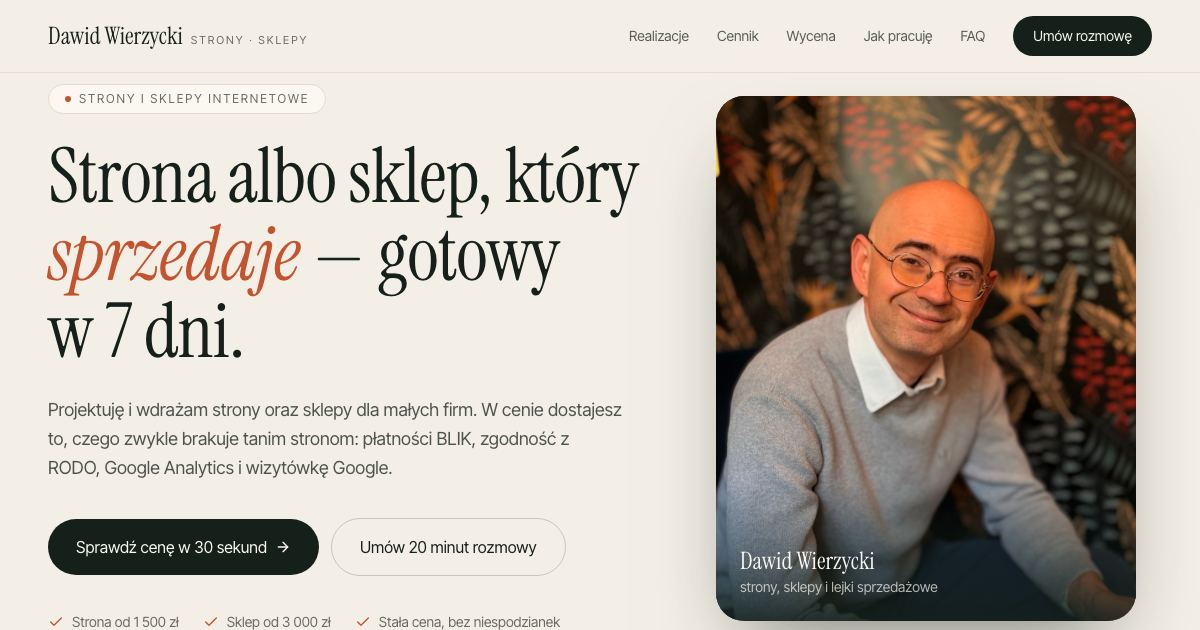
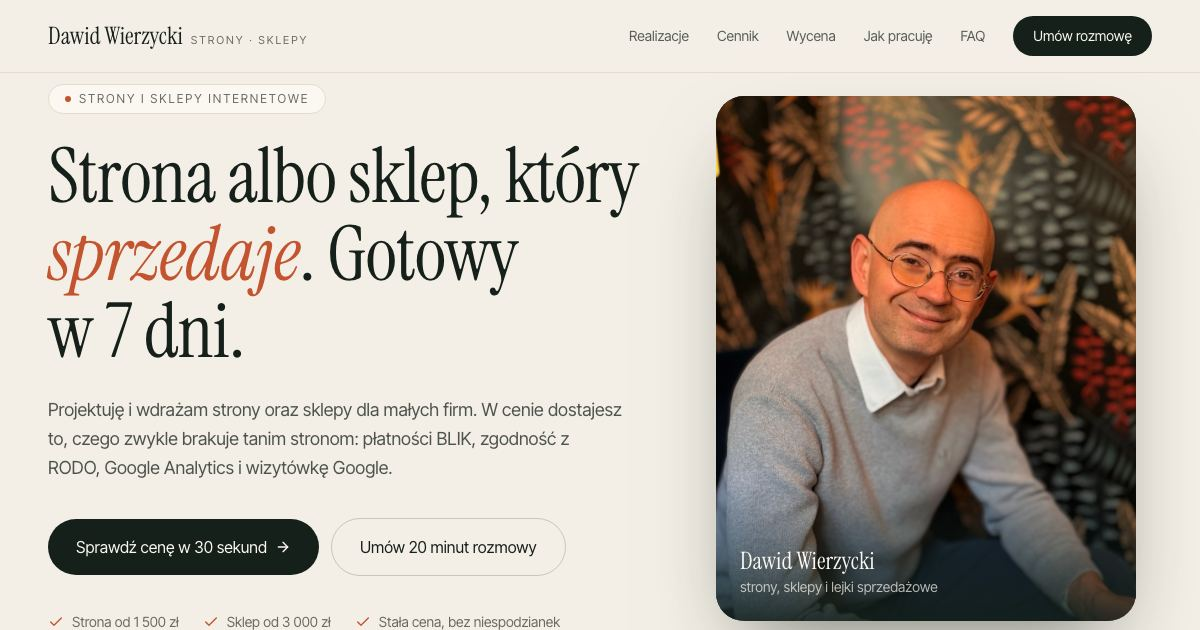
Teksty bez myślników: zdania przebudowane na kropki, przecinki i dwukropki (portfolio, polityka, koncepty, tytuły stron)

Changed region(s): [[0.2467, 0.3619, 0.4625, 0.4825]]

diff --git a/src/lib/content.ts b/src/lib/content.ts
@@ -55,7 +55,7 @@ export const PROJECTS: Project[] = [
     problem:
       "Sprzedaż e-booka dla adwokatów bez ręcznej obsługi: bez wysyłania plików, przepisywania danych do faktur i dopisywania ludzi do listy mailingowej.",
     solution:
-      "Sklep, który sam przyjmuje płatność, wysyła e-book, wystawia fakturę i zapisuje klienta do newslettera — a formularz zamówienia ma tylko trzy pola.",
+      "Sklep, który sam przyjmuje płatność, wysyła e-book, wystawia fakturę i zapisuje klienta do newslettera. Formularz zamówienia ma przy tym tylko trzy pola.",
     features: [
       "Płatności BLIK, kartą, Apple Pay i Google Pay",
       "Krótki formularz: e-mail, imię i nazwisko; dane do faktury tylko na życzenie (ze sprawdzaniem NIP)",
@@ -78,7 +78,7 @@ export const PROJECTS: Project[] = [
     problem:
       "Agencja pracująca z prawnikami, klinikami i agentami nieruchomości potrzebowała strony, która buduje zaufanie, zanim klient zadzwoni.",
     solution:
-      "Szybka strona z osobnymi podstronami dla każdej branży, blogiem eksperckim i rezerwacją rozmowy w kalendarzu — w trzech językach.",
+      "Szybka strona z osobnymi podstronami dla każdej branży, blogiem eksperckim i rezerwacją rozmowy w kalendarzu, w trzech językach.",
     features: [
       "Podstrony dla prawników, klinik i nieruchomości",
       "Blog ekspercki przyjazny Google i wyszukiwarkom AI",
@@ -147,7 +147,7 @@ export const PACKAGES = [
     price: 3000,
     pilot: null,
     time: "14 dni roboczych",
-    lead: "Dla firm, które chcą sprzedawać online — produkty, usługi lub pliki do pobrania.",
+    lead: "Dla firm, które chcą sprzedawać online: produkty, usługi lub pliki do pobrania.",
     items: [
       "Wszystko z pakietu Strona",
       "Do 20 produktów z kategoriami",
@@ -179,7 +179,7 @@ export const CARE = [
 
 export const STEPS = [
   { title: "Rozmowa", time: "20 minut", text: "Opowiadasz o firmie i klientach. Mówię, co ma sens, ile to kosztuje i kiedy będzie gotowe." },
-  { title: "Formularz i zaliczka", time: "1 dzień", text: "Wypełniasz krótki formularz (usługi, zdjęcia, dane). Wpłacasz 50% — rezerwuję termin." },
+  { title: "Formularz i zaliczka", time: "1 dzień", text: "Wypełniasz krótki formularz (usługi, zdjęcia, dane). Wpłacasz 50%, a ja rezerwuję termin." },
   { title: "Budowa", time: "strona 7 dni · sklep 14 dni", text: "Buduję stronę lub sklep. W trakcie dostajesz link do podglądu, żeby nic Cię nie zaskoczyło." },
   { title: "Poprawki i start", time: "1–2 dni", text: "Wprowadzam Twoje uwagi, podpinam domenę i Google. Dostajesz nagranie, jak samodzielnie zmieniać treści." },
 ];
@@ -187,11 +187,11 @@ export const STEPS = [
 export const FAQ = [
   {
     q: "Ile trwa zrobienie strony?",
-    a: "Strona: 7 dni roboczych, sklep: 14. Liczę od dnia, w którym dostanę wypełniony formularz i zdjęcia — najczęściej to właśnie materiały decydują o tempie.",
+    a: "Strona: 7 dni roboczych, sklep: 14. Liczę od dnia, w którym dostanę wypełniony formularz i zdjęcia. Najczęściej to właśnie materiały decydują o tempie.",
   },
   {
     q: "Kto płaci za domenę i hosting?",
-    a: "Ty — na swoim koncie, żeby strona zawsze była Twoja. Zwykle to kilkanaście–kilkadziesiąt złotych miesięcznie. Pomagam wybrać i wszystko konfiguruję.",
+    a: "Ty, na swoim koncie, żeby strona zawsze była Twoja. Zwykle to kilkanaście–kilkadziesiąt złotych miesięcznie. Pomagam wybrać i wszystko konfiguruję.",
   },
   {
     q: "Czy będę mógł sam zmieniać treści?",
@@ -199,23 +199,23 @@ export const FAQ = [
   },
   {
     q: "Czy w cenie jest blog?",
-    a: "Tak — blog gotowy do pisania (lista wpisów, kategorie, szablon artykułu) liczy się jako jedna z 5 podstron, a wpisy dodajesz sam. Jeśli nie masz czasu pisać, przygotuję artykuły pod frazy Twoich klientów — 150 zł za tekst (ok. 1 000–1 500 słów).",
+    a: "Tak. Blog gotowy do pisania (lista wpisów, kategorie, szablon artykułu) liczy się jako jedna z 5 podstron, a wpisy dodajesz sam. Jeśli nie masz czasu pisać, przygotuję artykuły pod frazy Twoich klientów. Cena: 150 zł za tekst (ok. 1 000–1 500 słów).",
   },
   {
     q: "Nie mam tekstów ani zdjęć. Co wtedy?",
-    a: "Na podstawie formularza przygotuję teksty do Twojej akceptacji. Jeśli wolisz, żebym napisał wszystko od zera po rozmowie — to dodatek za 300 zł. Zdjęcia mogą być z telefonu albo z banku zdjęć.",
+    a: "Na podstawie formularza przygotuję teksty do Twojej akceptacji. Jeśli wolisz, żebym napisał wszystko od zera po rozmowie, to dodatek za 300 zł. Zdjęcia mogą być z telefonu albo z banku zdjęć.",
   },
   {
     q: "Czy strona będzie widoczna w Google?",
-    a: "W cenie dostajesz SEO na start: tytuły i opisy pod frazy Twoich klientów (np. „fizjoterapeuta Poznań”), zgłoszenie strony w Google Search Console, dane lokalnej firmy dla Google, połączenie z wizytówką Google i szybkie ładowanie. Nikt uczciwy nie zagwarantuje pierwszego miejsca — regularne pozycjonowanie (artykuły, linki, analiza konkurencji) to osobna usługa, którą mogę wycenić.",
+    a: "W cenie dostajesz SEO na start: tytuły i opisy pod frazy Twoich klientów (np. „fizjoterapeuta Poznań”), zgłoszenie strony w Google Search Console, dane lokalnej firmy dla Google, połączenie z wizytówką Google i szybkie ładowanie. Nikt uczciwy nie zagwarantuje pierwszego miejsca. Regularne pozycjonowanie (artykuły, linki, analiza konkurencji) to osobna usługa, którą mogę wycenić.",
   },
   {
     q: "Jakie płatności obsłuży sklep?",
-    a: "BLIK, karty, Apple Pay i Google Pay — przez Stripe albo Przelewy24. Konto płatności zakładasz na swoją firmę, ja je podłączam i testuję.",
+    a: "BLIK, karty, Apple Pay i Google Pay, przez Stripe albo Przelewy24. Konto płatności zakładasz na swoją firmę, ja je podłączam i testuję.",
   },
   {
     q: "Czy strona będzie zgodna z RODO?",
-    a: "Tak: polityka prywatności, baner cookies, zgody przy formularzach. Regulamin sklepu przygotowuję na sprawdzonym wzorze — przy nietypowej sprzedaży warto dać go jeszcze do przejrzenia prawnikowi.",
+    a: "Tak: polityka prywatności, baner cookies, zgody przy formularzach. Regulamin sklepu przygotowuję na sprawdzonym wzorze. Przy nietypowej sprzedaży warto dać go jeszcze do przejrzenia prawnikowi.",
   },
   {
     q: "Co, jeśli coś przestanie działać?",
@@ -223,6 +223,6 @@ export const FAQ = [
   },
   {
     q: "Jak wygląda płatność?",
-    a: "50% zaliczki na start i 50% po oddaniu strony. Wystawiam fakturę bez VAT — korzystam ze zwolnienia podmiotowego (art. 113 ust. 1 ustawy o VAT), więc podane ceny są cenami końcowymi.",
+    a: "50% zaliczki na start i 50% po oddaniu strony. Wystawiam fakturę bez VAT, bo korzystam ze zwolnienia podmiotowego (art. 113 ust. 1 ustawy o VAT), więc podane ceny są cenami końcowymi.",
   },
 ];

diff --git a/src/app/polityka-prywatnosci/page.tsx b/src/app/polityka-prywatnosci/page.tsx
@@ -4,7 +4,7 @@ import { Footer } from "@/components/sections";
 import { COMPANY, CONTACT } from "@/lib/content";
 
 export const metadata: Metadata = {
-  title: "Polityka prywatności — Dawid Wierzycki",
+  title: "Polityka prywatności | Dawid Wierzycki",
   alternates: { canonical: "/polityka-prywatnosci/" },
   robots: { index: false },
 };
@@ -28,20 +28,20 @@ const SECTIONS: { h: string; p: string[] }[] = [
     h: "2. Jakie dane, w jakim celu i na jakiej podstawie",
     p: [
       "Strona nie ma kont użytkowników ani formularzy zapisujących dane na serwerze. Twoje dane (imię i nazwisko, adres e-mail, telefon, nazwa firmy, treść wiadomości lub odpowiedzi w formularzu rezerwacji) przetwarzam, gdy napiszesz do mnie e-mail, wyślesz wycenę z kalkulatora albo umówisz rozmowę w kalendarzu.",
-      "Cele i podstawy prawne: odpowiedź na wiadomość, rozmowa i przygotowanie oferty — działania przed zawarciem umowy na Twoje żądanie (art. 6 ust. 1 lit. b RODO); wykonanie i rozliczenie umowy (art. 6 ust. 1 lit. b i c RODO — obowiązki podatkowe i księgowe); ustalenie, dochodzenie lub obrona roszczeń oraz kontakt w sprawie złożonej oferty (art. 6 ust. 1 lit. f RODO — mój prawnie uzasadniony interes); statystyki i reklamy — wyłącznie na podstawie Twojej zgody (art. 6 ust. 1 lit. a RODO), opisane w punkcie 6.",
+      "Cele i podstawy prawne: odpowiedź na wiadomość, rozmowa i przygotowanie oferty, czyli działania przed zawarciem umowy na Twoje żądanie (art. 6 ust. 1 lit. b RODO); wykonanie i rozliczenie umowy (art. 6 ust. 1 lit. b i c RODO, czyli obowiązki podatkowe i księgowe); ustalenie, dochodzenie lub obrona roszczeń oraz kontakt w sprawie złożonej oferty (art. 6 ust. 1 lit. f RODO, czyli mój prawnie uzasadniony interes); statystyki i reklamy wyłącznie na podstawie Twojej zgody (art. 6 ust. 1 lit. a RODO), opisane w punkcie 6.",
       "Podanie danych jest dobrowolne, ale bez nich nie mogę odpowiedzieć na wiadomość, umówić rozmowy ani przygotować oferty. Nie podejmuję wobec Ciebie decyzji opartych wyłącznie na zautomatyzowanym przetwarzaniu.",
     ],
   },
   {
     h: "3. Jak długo przechowuję dane",
     p: [
-      "Korespondencję i dane z rezerwacji bez zawartej umowy — do 12 miesięcy od ostatniego kontaktu. Dokumenty związane z umową i rozliczeniem — przez okres wymagany przepisami podatkowymi (5 lat od końca roku, w którym powstał obowiązek podatkowy), a w zakresie roszczeń — do upływu ich przedawnienia. Dane z cookies — przez okresy podane w tabeli w punkcie 6 lub do wycofania zgody.",
+      "Korespondencję i dane z rezerwacji bez zawartej umowy przechowuję do 12 miesięcy od ostatniego kontaktu. Dokumenty związane z umową i rozliczeniem przechowuję przez okres wymagany przepisami podatkowymi (5 lat od końca roku, w którym powstał obowiązek podatkowy), a w zakresie roszczeń do upływu ich przedawnienia. Dane z cookies przechowuję przez okresy podane w tabeli w punkcie 6 lub do wycofania zgody.",
     ],
   },
   {
     h: "4. Komu przekazuję dane",
     p: [
-      "Dostawcom usług, z których korzystam, wyłącznie w zakresie niezbędnym: hosting strony i poczty — Hostinger International Ltd.; kalendarz rezerwacji — Cal.com, Inc. (USA); spotkania online i kalendarz — Google Ireland Ltd. (Google Meet, Kalendarz Google); fakturowanie — IFIRMA S.A. (Wrocław) oraz biuro rachunkowe; statystyki i reklamy, tylko za Twoją zgodą — Google Ireland Ltd. (Google Analytics) i Meta Platforms Ireland Ltd. (piksel Meta).",
+      "Dostawcom usług, z których korzystam, wyłącznie w zakresie niezbędnym. Są to: Hostinger International Ltd. (hosting strony i poczty); Cal.com, Inc., USA (kalendarz rezerwacji); Google Ireland Ltd. (spotkania online w Google Meet i Kalendarz Google); IFIRMA S.A. z Wrocławia (fakturowanie) oraz biuro rachunkowe. Tylko za Twoją zgodą dane otrzymują także Google Ireland Ltd. (Google Analytics) i Meta Platforms Ireland Ltd. (piksel Meta).",
       "Nie sprzedaję danych i nie udostępniam ich innym firmom w celach marketingowych.",
     ],
   },
@@ -54,9 +54,9 @@ const SECTIONS: { h: string; p: string[] }[] = [
   {
     h: "6. Pliki cookies, Google Analytics i piksel Meta",
     p: [
-      "Strona używa plików cookies niezbędnych do działania oraz — tylko po kliknięciu „Akceptuję” w banerze — cookies analitycznych (Google Analytics 4) i marketingowych (piksel Meta). Bez zgody GA4 działa w trybie zgody Google: nie zapisuje cookies i wysyła wyłącznie anonimowe sygnały bez identyfikatorów, a piksel Meta w ogóle się nie ładuje.",
+      "Strona używa plików cookies niezbędnych do działania oraz, tylko po kliknięciu „Akceptuję” w banerze, cookies analitycznych (Google Analytics 4) i marketingowych (piksel Meta). Bez zgody GA4 działa w trybie zgody Google: nie zapisuje cookies i wysyła wyłącznie anonimowe sygnały bez identyfikatorów, a piksel Meta w ogóle się nie ładuje.",
       "Google Analytics pokazuje mi, z których podstron korzystasz i co działa (np. ile osób umawia rozmowę lub wysyła wycenę). Piksel Meta pozwala mierzyć skuteczność reklam na Facebooku i Instagramie oraz pokazywać reklamy osobom, które odwiedziły stronę. W zakresie zbierania i przekazywania danych przez piksel jestem współadministratorem razem z Meta Platforms Ireland Ltd.; dalsze przetwarzanie danych przez Meta opisuje polityka prywatności Meta (facebook.com/privacy/policy).",
-      "Zgodę możesz w każdej chwili wycofać przyciskiem „Ustawienia cookies” w stopce strony — wycofanie nie wpływa na zgodność z prawem przetwarzania przed jego dokonaniem. Możesz też zarządzać cookies w ustawieniach przeglądarki. Serwer zapisuje standardowe logi techniczne (m.in. adres IP, czas wizyty) w celu zapewnienia bezpieczeństwa (art. 6 ust. 1 lit. f RODO).",
+      "Zgodę możesz w każdej chwili wycofać przyciskiem „Ustawienia cookies” w stopce strony. Wycofanie nie wpływa na zgodność z prawem przetwarzania przed jego dokonaniem. Możesz też zarządzać cookies w ustawieniach przeglądarki. Serwer zapisuje standardowe logi techniczne (m.in. adres IP, czas wizyty) w celu zapewnienia bezpieczeństwa (art. 6 ust. 1 lit. f RODO).",
     ],
   },
   {

diff --git a/src/components/koncepcje/kancelaria.tsx b/src/components/koncepcje/kancelaria.tsx
@@ -19,7 +19,7 @@ const AREAS = [
     icon: ScrollText,
     title: "Sprawy spadkowe",
     lead: "Stwierdzenie nabycia spadku, zachowek, dział spadku.",
-    items: ["Stwierdzenie nabycia spadku", "Zachowek — dochodzenie i obrona", "Dział spadku i zniesienie współwłasności", "Odrzucenie spadku z długami"],
+    items: ["Stwierdzenie nabycia spadku", "Zachowek: dochodzenie i obrona", "Dział spadku i zniesienie współwłasności", "Odrzucenie spadku z długami"],
   },
   {
     icon: Building2,
@@ -30,10 +30,10 @@ const AREAS = [
 ];
 
 const FAQ = [
-  ["Ile kosztuje pierwsza konsultacja?", "Konsultacja trwa do 60 minut. Jej koszt podaję przy umawianiu terminu — po rozmowie otrzymujesz pisemną propozycję wynagrodzenia za prowadzenie sprawy."],
+  ["Ile kosztuje pierwsza konsultacja?", "Konsultacja trwa do 60 minut. Jej koszt podaję przy umawianiu terminu, a po rozmowie otrzymujesz pisemną propozycję wynagrodzenia za prowadzenie sprawy."],
   ["Czy mogę skonsultować się online?", "Tak. Spotykamy się przez bezpieczne połączenie wideo, a dokumenty możesz przesłać wcześniej e-mailem."],
   ["Jakie dokumenty przygotować?", "Wszystko, co dotyczy sprawy: umowy, pisma z sądu, korespondencję. Po umówieniu terminu otrzymasz krótką listę."],
-  ["Czy informacje o mojej sprawie są poufne?", "Tak. Adwokata obowiązuje tajemnica adwokacka — bez wyjątków i bez ograniczenia w czasie."],
+  ["Czy informacje o mojej sprawie są poufne?", "Tak. Adwokata obowiązuje tajemnica adwokacka, bez wyjątków i bez ograniczenia w czasie."],
 ];
 
 function workdays(n: number) {
@@ -133,7 +133,7 @@ export function Kancelaria() {
         <motion.div initial={{ opacity: 0, y: 20 }} animate={{ opacity: 1, y: 0 }} transition={{ duration: 0.8 }}>
           <p className="text-sm uppercase tracking-[0.25em] text-[#a8834a]">Wrocław · konsultacje także online</p>
           <h1 className="mt-5 font-(family-name:--c-display) text-5xl font-light leading-[1.05] sm:text-7xl">
-            Prawo rodzinne i spadkowe <em className="text-[#a8834a]">— spokojnie i konkretnie.</em>
+            Prawo rodzinne i spadkowe. <em className="text-[#a8834a]">Spokojnie i konkretnie.</em>
           </h1>
           <p className="mt-6 max-w-lg text-lg leading-relaxed text-[#1d2a3a]/70">
             Pomagam przejść przez rozwód, sprawy spadkowe i zakup nieruchomości. Na pierwszym spotkaniu dowiesz się, jakie masz
@@ -188,7 +188,7 @@ export function Kancelaria() {
         <div className="mt-12 grid gap-8 md:grid-cols-3">
           {[
             ["Konsultacja", "Poznaję Twoją sytuację, analizuję dokumenty i mówię wprost, jakie są szanse i ryzyka."],
-            ["Plan i wycena", "Otrzymujesz pisemny plan działania i jasną propozycję wynagrodzenia — bez niespodzianek."],
+            ["Plan i wycena", "Otrzymujesz pisemny plan działania i jasną propozycję wynagrodzenia, bez niespodzianek."],
             ["Prowadzenie sprawy", "Przygotowuję pisma i reprezentuję Cię w sądzie. Wiesz, co się dzieje na każdym etapie."],
           ].map(([t, d], i) => (
             <div key={t} className="border-t border-[#1d2a3a]/15 pt-6">
@@ -212,7 +212,7 @@ export function Kancelaria() {
           <h2 className="mt-3 font-(family-name:--c-display) text-4xl font-light sm:text-5xl">Adwokat, który tłumaczy prawo na <em>ludzki język.</em></h2>
           <p className="mt-6 text-lg leading-relaxed text-[#1d2a3a]/70">
             Jestem adwokatem wpisanym na listę Izby Adwokackiej we Wrocławiu. Zajmuję się sprawami, w których obok prawa liczą
-            się emocje — dlatego dbam o to, żeby klient zawsze rozumiał, co dzieje się w jego sprawie.
+            się emocje. Dlatego dbam o to, żeby klient zawsze rozumiał, co dzieje się w jego sprawie.
           </p>
           <ul className="mt-6 space-y-2">
             {["Mediacje rodzinne przed skierowaniem sprawy do sądu", "Konsultacje w języku polskim i angielskim", "Kontakt mailowy w ciągu 24 godzin"].map((t) => (

diff --git a/src/components/work.tsx b/src/components/work.tsx
@@ -16,13 +16,13 @@ function Showcase({ p }: { p: Project }) {
         </div>
         <div className={`relative aspect-[16/10] overflow-hidden ${p.scroll ? "scrollshot" : ""}`}>
           {/* eslint-disable-next-line @next/next/no-img-element */}
-          <img src={p.desktop} alt={`${p.title} — widok na komputerze`} loading="lazy" className="absolute left-0 top-0 w-full" />
+          <img src={p.desktop} alt={`${p.title}: widok na komputerze`} loading="lazy" className="absolute left-0 top-0 w-full" />
         </div>
       </div>
       {/* Telefon */}
       <div className="absolute -bottom-8 -right-2 w-[26%] min-w-[96px] overflow-hidden rounded-[22px] border-[5px] border-forest bg-forest shadow-2xl sm:-right-6">
         {/* eslint-disable-next-line @next/next/no-img-element */}
-        <img src={p.mobile} alt={`${p.title} — widok na telefonie`} className="block aspect-[390/844] w-full object-cover object-top" />
+        <img src={p.mobile} alt={`${p.title}: widok na telefonie`} className="block aspect-[390/844] w-full object-cover object-top" />
       </div>
       {p.scroll && (
         <p className="mt-3 hidden text-xs text-muted lg:block">Najedź kursorem, żeby przewinąć stronę</p>
@@ -101,7 +101,7 @@ export function Work() {
               Tak może wyglądać <em>strona Twojej branży.</em>
             </h3>
             <p className="mt-4 max-w-2xl text-ink/70">
-              Działające wersje pokazowe dla fikcyjnych firm — kliknij i przetestuj rezerwację, kalendarz czy koszyk.
+              Działające wersje pokazowe dla fikcyjnych firm. Kliknij i przetestuj rezerwację, kalendarz czy koszyk.
             </p>
           </Reveal>
           <div className="mt-12 grid gap-8 sm:grid-cols-2">
@@ -116,7 +116,7 @@ export function Work() {
                     </div>
                     <div className="scrollshot relative aspect-[16/10] overflow-hidden">
                       {/* eslint-disable-next-line @next/next/no-img-element */}
-                      <img src={`/koncepcje/miniatury/${c.slug}.jpg`} alt={`${c.name} — podgląd`} loading="lazy" className="absolute left-0 top-0 w-full" />
+                      <img src={`/koncepcje/miniatury/${c.slug}.jpg`} alt={`${c.name}: podgląd`} loading="lazy" className="absolute left-0 top-0 w-full" />
                     </div>
                   </div>
                   <div className="mt-5 flex items-start justify-between gap-4">
@@ -142,7 +142,7 @@ export function Work() {
                 Tu może być <em className="text-clay">Twoja firma.</em>
               </p>
               <p className="mt-2 max-w-xl text-ink/70">
-                Zostały 3 miejsca w cenie pilotażowej: strona za 1 000 zł zamiast 1 500 zł — w zamian za opinię i zgodę na
+                Zostały 3 miejsca w cenie pilotażowej: strona za 1 000 zł zamiast 1 500 zł, w zamian za opinię i zgodę na
                 pokazanie projektu w portfolio.
               </p>
             </div>

diff --git a/src/components/koncepcje/restauracja.tsx b/src/components/koncepcje/restauracja.tsx
@@ -31,9 +31,9 @@ const MENU: Record<string, { name: string; desc: string; price: number; tag?: st
 };
 
 const HOURS = [
-  ["Pon – Czw", "8:00 – 22:00"],
-  ["Pt – Sob", "8:00 – 23:30"],
-  ["Niedziela", "9:00 – 21:00"],
+  ["Pon–Czw", "8:00–22:00"],
+  ["Pt–Sob", "8:00–23:30"],
+  ["Niedziela", "9:00–21:00"],
 ];
 
 const SLOTS = ["12:00", "13:00", "14:00", "17:30", "18:30", "19:30", "20:30"];
@@ -177,7 +177,7 @@ export function Restauracja() {
           <h2 className="mt-4 font-(family-name:--c-display) text-5xl leading-none sm:text-6xl">Menu zmienia się <em>co sześć tygodni.</em></h2>
           <p className="mt-6 text-lg leading-relaxed text-[#efe6d8]/75">
             Kupujemy od rolników z Dolnego Śląska, pieczemy własny chleb na zakwasie i robimy przetwory na zimę. Dlatego
-            karta jest krótka — ale każde danie jest dopracowane.
+            karta jest krótka, ale każde danie jest dopracowane.
           </p>
           <div className="mt-10 grid grid-cols-3 gap-4 border-t border-[#efe6d8]/15 pt-8">
             {[["12", "dostawców z regionu"], ["48 h", "fermentacji zakwasu"], ["0", "mrożonek"]].map(([n, t]) => (
@@ -240,7 +240,7 @@ export function Restauracja() {
         <div className="grid gap-6 md:grid-cols-3">
           {[
             ["Najlepsze pierogi we Wrocławiu. I wreszcie miejsce, gdzie karta nie ma 40 pozycji.", "Kasia"],
-            ["Byliśmy na rocznicy — obsługa zapamiętała, że świętujemy. Wrócimy jesienią.", "Tomek i Ola"],
+            ["Byliśmy na rocznicy, a obsługa zapamiętała, że świętujemy. Wrócimy jesienią.", "Tomek i Ola"],
             ["Śniadania w weekend to obowiązkowy punkt. Szakszuka jest rewelacyjna.", "Marta"],
           ].map(([q, a]) => (
             <figure key={a} className="rounded-3xl border border-[#efe6d8]/10 p-8">
@@ -257,7 +257,7 @@ export function Restauracja() {
         <div>
           <p className="text-sm uppercase tracking-[0.3em] text-[#e0a46a]">Rezerwacja</p>
           <h2 className="mt-4 font-(family-name:--c-display) text-5xl leading-none sm:text-6xl">Zarezerwuj stolik <em>w 20 sekund.</em></h2>
-          <p className="mt-6 text-[#efe6d8]/70">Grupy powyżej 12 osób i kolacje firmowe — zadzwoń, przygotujemy osobne menu.</p>
+          <p className="mt-6 text-[#efe6d8]/70">Grupy powyżej 12 osób i kolacje firmowe? Zadzwoń, przygotujemy osobne menu.</p>
         </div>
         <Reservation />
       </section>

diff --git a/src/components/sections.tsx b/src/components/sections.tsx
@@ -57,10 +57,10 @@ export function About() {
             </p>
             <p>
               Dlatego razem ze stroną dostajesz to, czego zwykle brakuje: płatności, analitykę, formularze, które naprawdę
-              trafiają do Ciebie, i zgodność z RODO. Pracuję bezpośrednio z Tobą — bez pośredników i bez juniorów.
+              trafiają do Ciebie, i zgodność z RODO. Pracuję bezpośrednio z Tobą, bez pośredników i bez juniorów.
             </p>
             <p>
-              Programowania uczyłem się na 800-godzinnym bootcampie Full Stack Developer w Kodilli — dlatego oprócz stron
+              Programowania uczyłem się na 800-godzinnym bootcampie Full Stack Developer w Kodilli. Dlatego oprócz stron
               na WordPressie robię też rzeczy w kodzie: React, Next.js, Node.js, integracje i bazy danych.
             </p>
           </div>
@@ -96,7 +96,7 @@ export function Booking() {
             może być gotowe.
           </p>
           <ul className="mt-8 space-y-3 text-ink/80">
-            {["Rozmowa online — wystarczy telefon lub komputer", "Konkretna wycena i termin po rozmowie", "Bez presji i bez ukrytych kosztów"].map((t) => (
+            {["Rozmowa online: wystarczy telefon lub komputer", "Konkretna wycena i termin po rozmowie", "Bez presji i bez ukrytych kosztów"].map((t) => (
               <li key={t} className="flex gap-3">
                 <span className="mt-2 size-1.5 shrink-0 rounded-full bg-clay" />
                 {t}

diff --git a/src/components/pricing.tsx b/src/components/pricing.tsx
@@ -15,7 +15,7 @@ export function Pricing() {
             Stała cena. <em className="text-clay-soft">Bez</em> „to zależy”.
           </h2>
           <p className="mt-5 max-w-2xl text-lg text-paper/70">
-            Wiesz, ile zapłacisz, zanim zaczniemy. Domenę i hosting opłacasz na swoim koncie — strona zawsze należy do Ciebie.
+            Wiesz, ile zapłacisz, zanim zaczniemy. Domenę i hosting opłacasz na swoim koncie, więc strona zawsze należy do Ciebie.
           </p>
         </Reveal>
 
@@ -41,7 +41,7 @@ export function Pricing() {
                 </div>
                 {pkg.pilot && (
                   <p className="mt-3 inline-flex w-fit rounded-full bg-clay-soft px-3 py-1 text-sm text-clay">
-                    Cena pilotażowa: {zl(pkg.pilot)} — zostały 3 miejsca
+                    Cena pilotażowa: {zl(pkg.pilot)} · zostały 3 miejsca
                   </p>
                 )}
 
@@ -69,7 +69,7 @@ export function Pricing() {
 
         <Reveal>
           <p className="mt-10 text-center text-sm text-paper/60">
-            Potrzebujesz czegoś nietypowego — aplikacji, kalkulatora, strony z wyjątkowymi animacjami?{" "}
+            Potrzebujesz czegoś nietypowego, np. aplikacji, kalkulatora albo strony z wyjątkowymi animacjami?{" "}
             <a href={contactHref("Projekt indywidualny")} className="text-paper underline underline-offset-4 hover:text-clay-soft">
               Wyceniam indywidualnie
             </a>

diff --git a/src/components/koncepcje/palarnia.tsx b/src/components/koncepcje/palarnia.tsx
@@ -118,7 +118,7 @@ function Checkout({ total, onClose, onDone }: { total: number; onClose: () => vo
                   placeholder="000 000"
                   className="mt-2 w-full rounded-xl border border-neutral-200 bg-white px-4 py-3 text-center text-2xl tracking-[0.4em]"
                 />
-                <p className="mt-2 text-xs text-[#2b1d16]/50">Wersja demo — wpisz dowolne 6 cyfr.</p>
+                <p className="mt-2 text-xs text-[#2b1d16]/50">Wersja demo: wpisz dowolne 6 cyfr.</p>
               </div>
             </div>
             <button disabled={blik.length !== 6} className="mt-5 w-full rounded-full py-4 text-white disabled:opacity-40" style={{ background: ORANGE }}>
@@ -213,8 +213,8 @@ export function Palarnia() {
           <div>
             <h2 className="font-(family-name:--c-display) text-4xl sm:text-5xl">Od zielonego ziarna do Twojej filiżanki.</h2>
             <p className="mt-6 text-lg leading-relaxed text-[#fbf7f0]/75">
-              Kupujemy kawy bezpośrednio od importerów, którzy znają farmerów z imienia. Palimy w małych partiach po 15 kg —
-              każdą partię degustujemy, zanim trafi do paczki.
+              Kupujemy kawy bezpośrednio od importerów, którzy znają farmerów z imienia. Palimy w małych partiach po 15 kg, a każdą partię degustujemy
+             , zanim trafi do paczki.
             </p>
           </div>
         </div>

diff --git a/src/app/layout.tsx b/src/app/layout.tsx
@@ -24,7 +24,7 @@ const SITE = "https://dawidwierzycki.pl";
 
 export const metadata: Metadata = {
   metadataBase: new URL(SITE),
-  title: "Dawid Wierzycki — strony i sklepy internetowe dla firm",
+  title: "Dawid Wierzycki | Strony i sklepy internetowe dla firm",
   description:
     "Strona dla Twojej firmy w 7 dni, sklep w 14. Płatności BLIK, RODO, Google Analytics i wizytówka Google w cenie. Strona od 1 500 zł, sklep od 3 000 zł.",
   alternates: { canonical: "/" },
@@ -33,7 +33,7 @@ export const metadata: Metadata = {
     locale: "pl_PL",
     url: SITE,
     siteName: "Dawid Wierzycki",
-    title: "Strona albo sklep, który sprzedaje — gotowy w 7 dni",
+    title: "Strona albo sklep, który sprzedaje. Gotowy w 7 dni",
     description: "Strony i sklepy internetowe dla małych firm. Płatności, RODO i analityka w cenie.",
     images: [{ url: "/og.jpg", width: 1200, height: 630 }],
   },
@@ -47,7 +47,7 @@ export const viewport: Viewport = {
 const jsonLd = {
   "@context": "https://schema.org",
   "@type": "ProfessionalService",
-  name: "Dawid Wierzycki — strony i sklepy internetowe",
+  name: "Dawid Wierzycki, strony i sklepy internetowe",
   url: SITE,
   email: "dawid@wierzycki.pl",
   image: `${SITE}/dawid.jpg`,

diff --git a/src/app/koncepcje/fizjoterapia/page.tsx b/src/app/koncepcje/fizjoterapia/page.tsx
@@ -6,7 +6,7 @@ const display = DM_Serif_Display({ subsets: ["latin", "latin-ext"], weight: "400
 const body = DM_Sans({ subsets: ["latin", "latin-ext"], variable: "--c-body" });
 
 export const metadata: Metadata = {
-  title: "Studio Ruchu — projekt koncepcyjny strony gabinetu fizjoterapii",
+  title: "Studio Ruchu | projekt koncepcyjny strony gabinetu fizjoterapii",
   description: "Koncept strony gabinetu: cennik zabiegów, zespół, rezerwacja wizyty online krok po kroku.",
   robots: { index: false },
 };

diff --git a/src/app/koncepcje/palarnia/page.tsx b/src/app/koncepcje/palarnia/page.tsx
@@ -6,7 +6,7 @@ const display = Young_Serif({ subsets: ["latin", "latin-ext"], weight: "400", va
 const body = Space_Grotesk({ subsets: ["latin", "latin-ext"], variable: "--c-body" });
 
 export const metadata: Metadata = {
-  title: "Ziarno & Żar — projekt koncepcyjny sklepu internetowego",
+  title: "Ziarno & Żar | projekt koncepcyjny sklepu internetowego",
   description: "Koncept sklepu palarni kawy: produkty z filtrami, koszyk, dostawa do paczkomatu i płatność BLIK.",
   robots: { index: false },
 };

diff --git a/src/app/koncepcje/kancelaria/page.tsx b/src/app/koncepcje/kancelaria/page.tsx
@@ -6,7 +6,7 @@ const display = Fraunces({ subsets: ["latin", "latin-ext"], weight: ["300", "400
 const body = Inter({ subsets: ["latin", "latin-ext"], variable: "--c-body" });
 
 export const metadata: Metadata = {
-  title: "Kancelaria Adwokacka — projekt koncepcyjny strony",
+  title: "Kancelaria Adwokacka | projekt koncepcyjny strony",
   description: "Koncept strony kancelarii: specjalizacje, umawianie konsultacji online, FAQ i treści zgodne z etyką zawodową.",
   robots: { index: false },
 };
